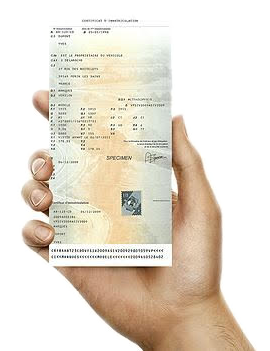
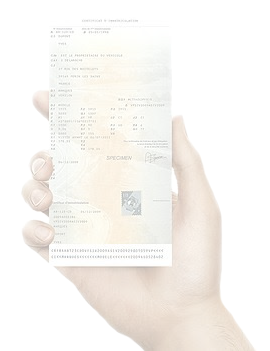
retouche footer et ajout image de fond

diff --git a/assets/css/style.scss b/assets/css/style.scss
@@ -665,3 +665,9 @@ ul {
 	display: block;
 } 
 /* Fin CERFA */
+body.body-accueil {
+	background: url("/../../asset/img/bg-main.png") center no-repeat;
+	background-size: 400px !important;
+    background-attachment: fixed;
+	background-position: bottom 0 left 20% !important;
+}
